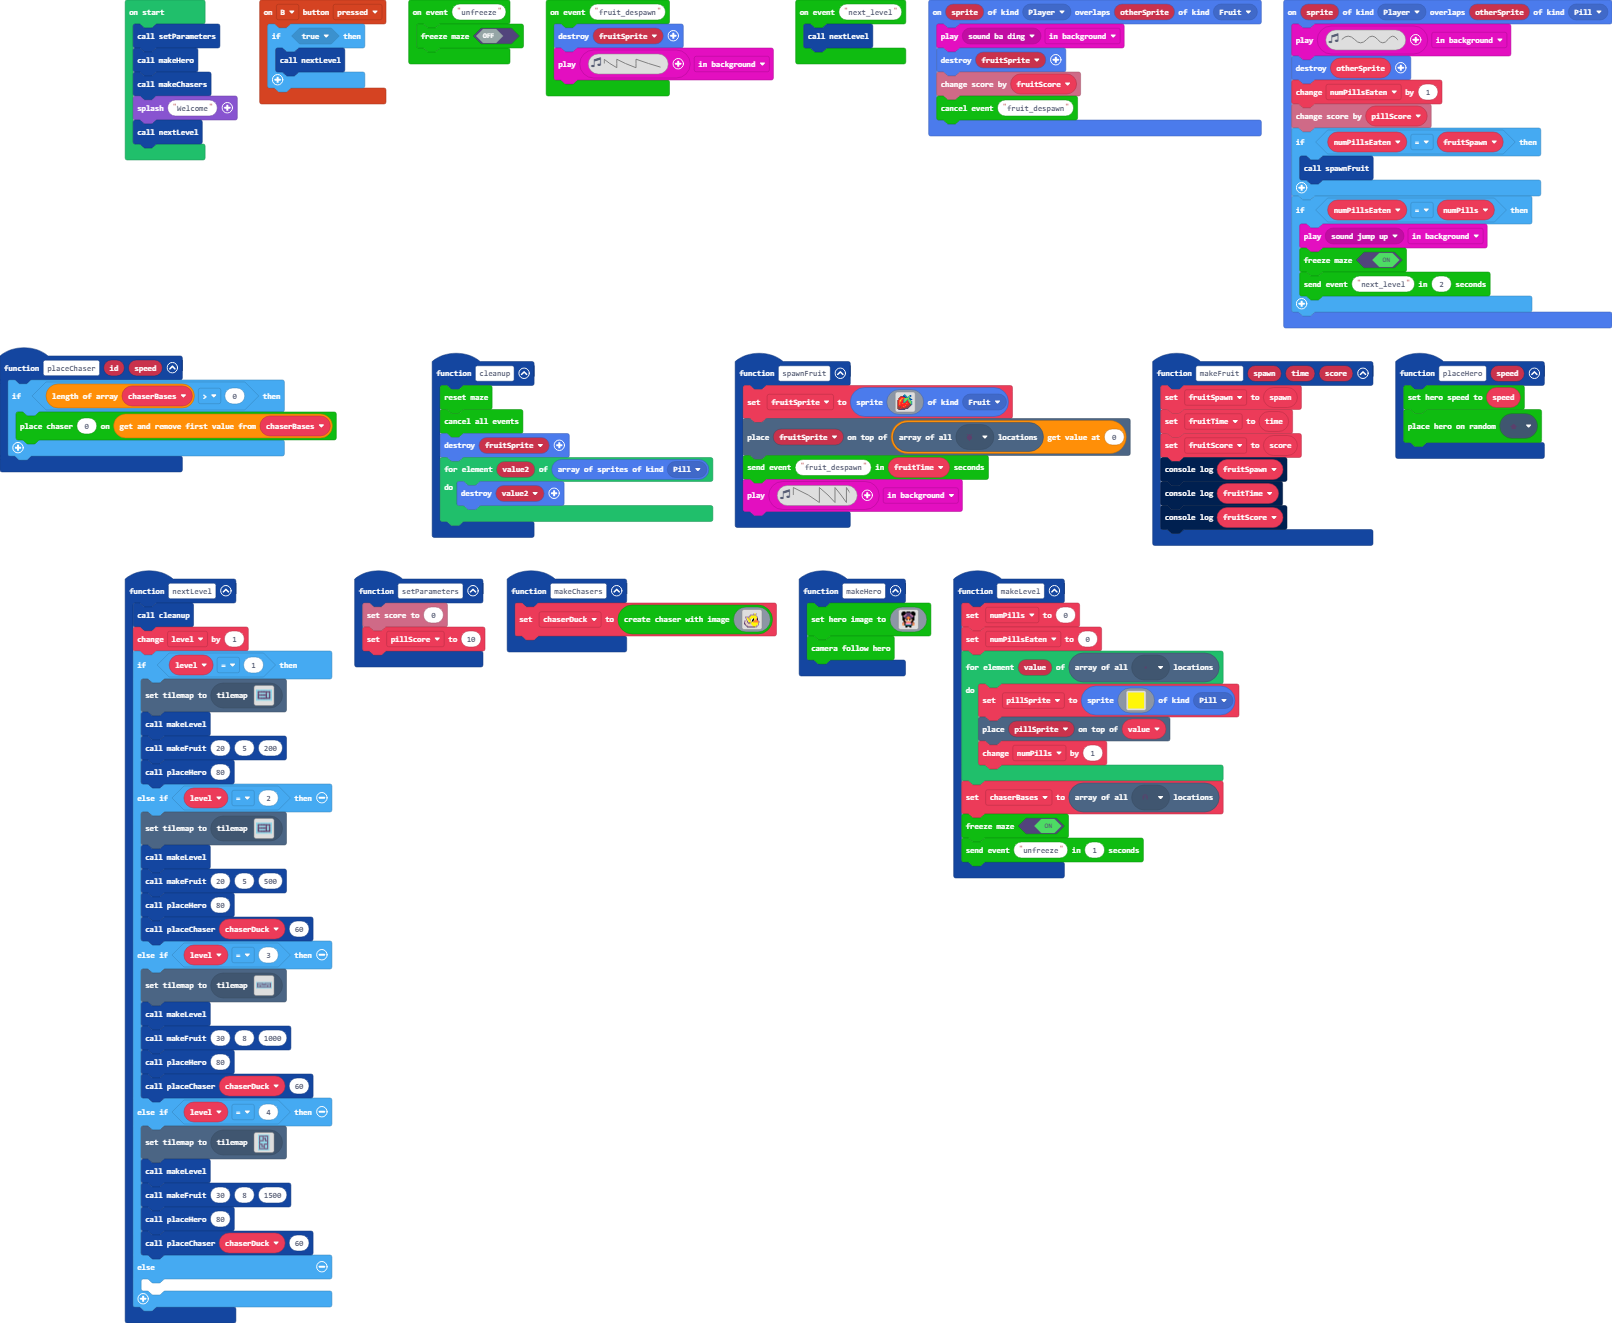
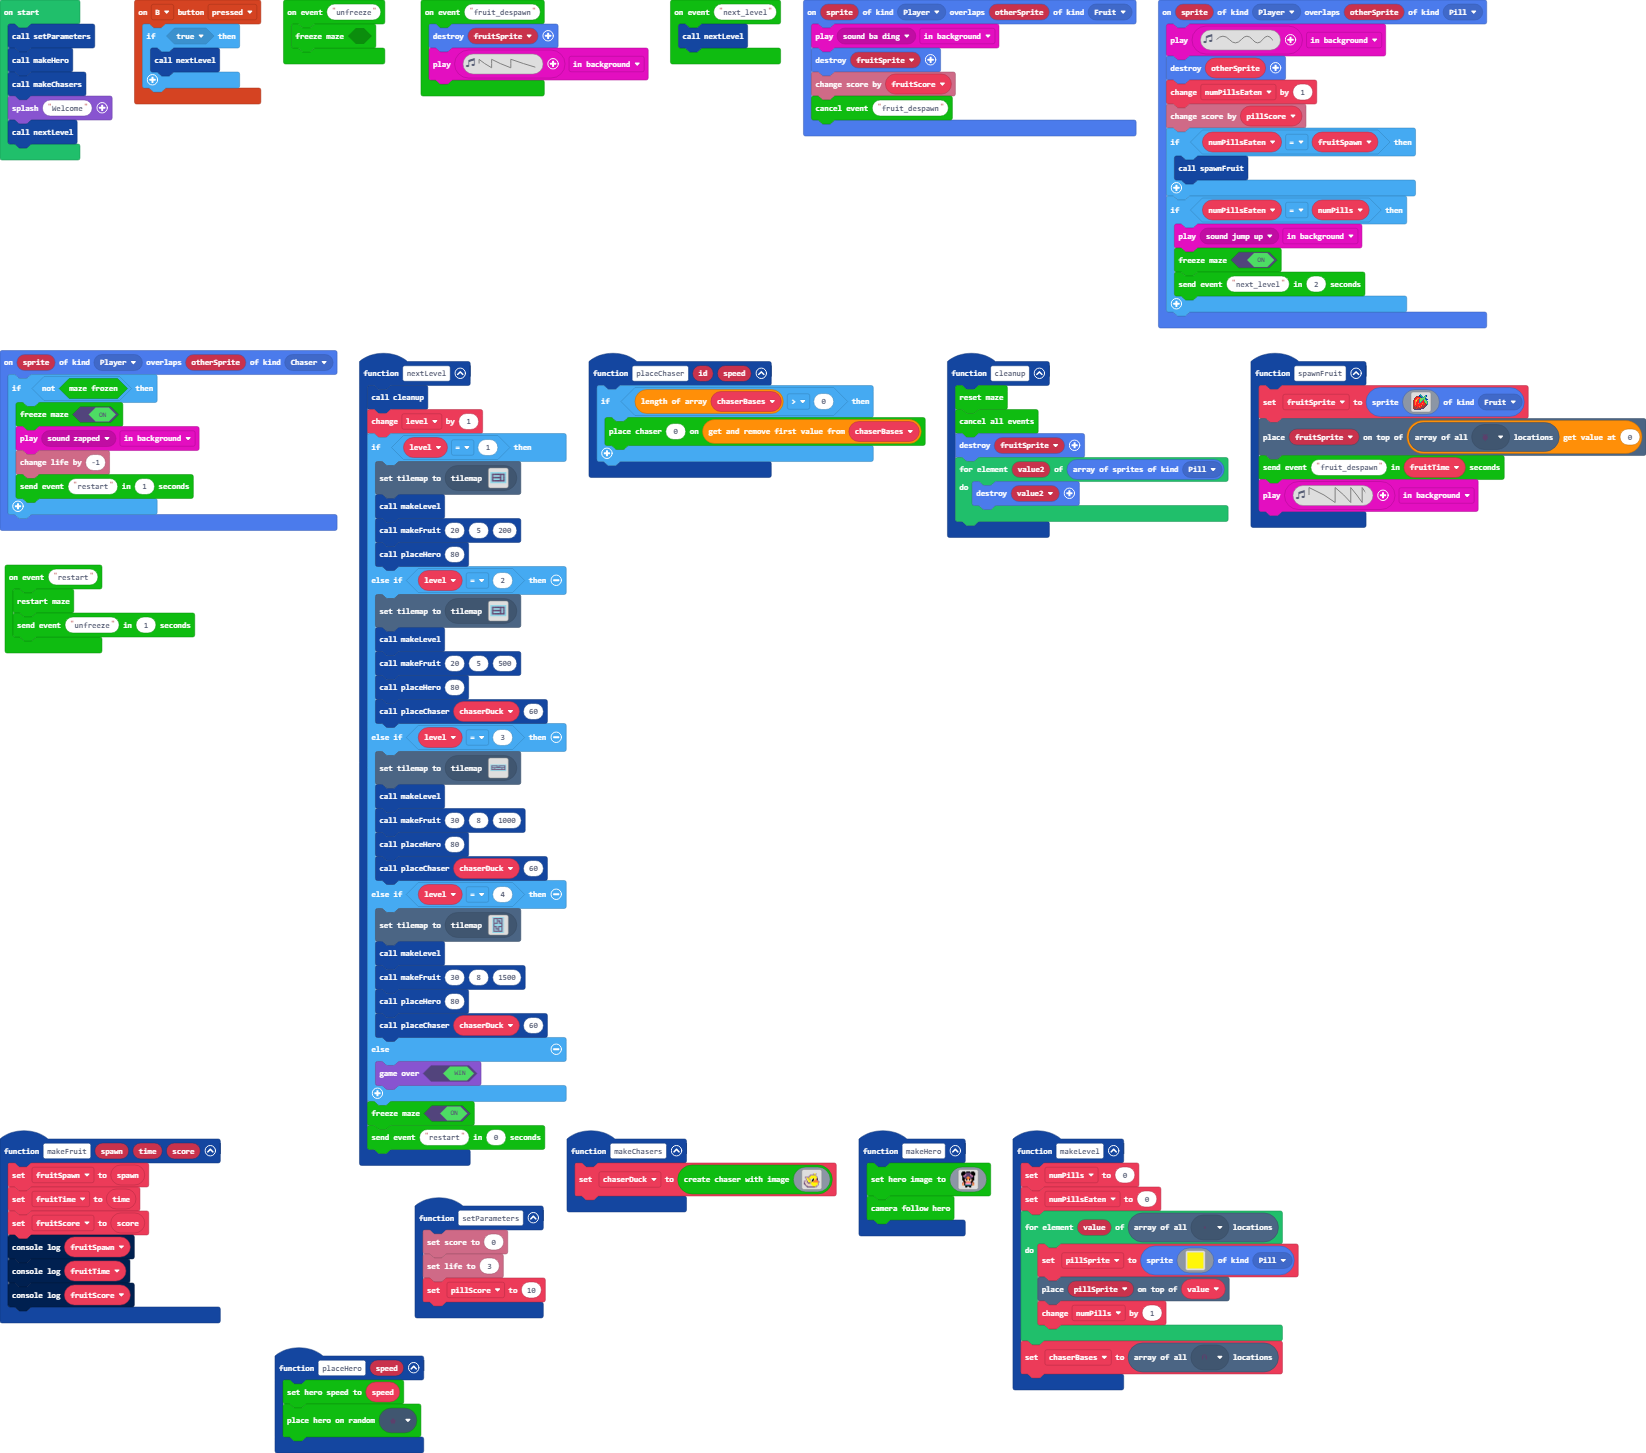
Chaser now eats hero

diff --git a/maze_mover.ts b/maze_mover.ts
@@ -11,8 +11,9 @@ namespace maze {
         _direction: Direction
         _request: Direction
         _speed: number
-        _freeze: boolean
+        _frozen: boolean
         _changedTile: boolean
+        _startLocation: tiles.Location
 
         constructor() {
             this._x = 0         // world x
@@ -25,7 +26,7 @@ namespace maze {
             this._direction = Direction.None
             this._request = Direction.None
             this._speed = 50
-            this._freeze = false
+            this._frozen = false
             this._changedTile = false
         }
 
@@ -46,28 +47,33 @@ namespace maze {
             this.show(false)
         }
 
+        restart() {
+            this.placeOnTile(this._startLocation)
+        }
+
         placeOnImage(img: Image) {
             const loc = tiles.getRandomTileByType(img)
-            if (loc) {
-                this.placeOnTile(loc)
-            }
+            this.placeOnTile(loc)
         }
 
         placeOnTile(loc: tiles.Location) {
-            tiles.placeOnTile(this._sprite, loc)
-            this._sprite.vx = 0
-            this._sprite.vy = 0
-            this._x = this._sprite.x
-            this._y = this._sprite.y
-            this._vx = 0
-            this._vy = 0
-            this._tx = loc.col
-            this._ty = loc.row
-            this._direction = Direction.None
-            this._request = Direction.None
-            this._changedTile = false
-            this.updateCanMove()
-            this.show(true)
+            if (loc) {
+                tiles.placeOnTile(this._sprite, loc)
+                this._startLocation = loc
+                this._sprite.vx = 0
+                this._sprite.vy = 0
+                this._x = this._sprite.x
+                this._y = this._sprite.y
+                this._vx = 0
+                this._vy = 0
+                this._tx = loc.col
+                this._ty = loc.row
+                this._direction = Direction.None
+                this._request = Direction.None
+                this._changedTile = false
+                this.updateCanMove()
+                this.show(true)
+            }
         }
 
         show(on: boolean) {
@@ -174,9 +180,9 @@ namespace maze {
             this._vy = this._sprite.vy
         }
 
-        freeze(enable: boolean) {
+        freeze(on: boolean) {
             if (this._sprite) {
-                if (enable) {
+                if (on) {
                     this._vx = this._sprite.vx
                     this._vy = this._sprite.vy
                     this._sprite.vx = 0
@@ -186,11 +192,11 @@ namespace maze {
                     this._sprite.vy = this._vy
                 }
             }
-            this._freeze = enable
+            this._frozen = on
         }
 
         isReady() : boolean {
-            return (this._sprite && !this._freeze)
+            return (this._sprite && !this._frozen)
         }
 
         public canMove(dir: Direction): boolean {

diff --git a/maze.ts b/maze.ts
@@ -16,10 +16,12 @@ namespace maze {
     class Maze {
         _hero: Hero
         _chasers: Chaser[]
+        _frozen: boolean
 
         constructor() {
             this._hero = new Hero()
             this._chasers = []
+            this._frozen = false
         }
 
         init() {
@@ -31,14 +33,20 @@ namespace maze {
             this._chasers.forEach(chaser => chaser.reset())
         }
 
+        restart() {
+            this._hero._mover.restart()
+            this._chasers.forEach(chaser => chaser._mover.restart())
+        }
+
         update() {
             this._hero.update()
             this._chasers.forEach(chaser => chaser.update())
         }
 
-        freeze(enable: boolean) {
-            this._hero._mover.freeze(enable)
-            this._chasers.forEach(chaser => chaser._mover.freeze(enable))
+        freeze(on: boolean) {
+            this._frozen = on
+            this._hero._mover.freeze(on)
+            this._chasers.forEach(chaser => chaser._mover.freeze(on))
         }
     }
     let _maze: Maze = null
@@ -53,11 +61,18 @@ namespace maze {
 
     //% blockId=maze_freeze
     //% group="Game"
-    //% block="freeze maze $enable"
-    //% enable.defl=true
-    //% enable.shadow=toggleOnOff
-    export function freeze(enable: boolean) {
-        getMaze().freeze(enable)
+    //% block="freeze maze $on"
+    //% on.defl=true
+    //% on.shadow=toggleOnOff
+    export function freeze(on: boolean) {
+        getMaze().freeze(on)
+    }
+
+    //% blockId=maze_is_frozen
+    //% group="Game"
+    //% block="maze frozen"
+    export function isFrozen(): boolean {
+        return getMaze()._frozen
     }
 
     //% blockId=maze_reset
@@ -65,5 +80,12 @@ namespace maze {
     //% block="reset maze"
     export function reset() {
         getMaze().reset()
+    }
+
+    //% blockId=maze_restart
+    //% group="Game"
+    //% block="restart maze"
+    export function restart() {
+        getMaze().restart()
     }
 }

diff --git a/main.ts b/main.ts
@@ -5,6 +5,7 @@ namespace SpriteKind {
 }
 function setParameters () {
     info.setScore(0)
+    info.setLife(3)
     pillScore = 10
 }
 function makeHero () {
@@ -28,6 +29,14 @@ function makeHero () {
         `)
     maze.cameraFollowHero()
 }
+sprites.onOverlap(SpriteKind.Player, SpriteKind.Chaser, function (sprite, otherSprite) {
+    if (!(maze.isFrozen())) {
+        maze.freeze(true)
+        music.play(music.melodyPlayable(music.zapped), music.PlaybackMode.InBackground)
+        info.changeLifeBy(-1)
+        maze.sendEvent("restart", 1)
+    }
+})
 controller.B.onEvent(ControllerButtonEvent.Pressed, function () {
     if (true) {
         nextLevel()
@@ -42,8 +51,6 @@ function makeLevel () {
         numPills += 1
     }
     chaserBases = tiles.getTilesByType(assets.tile`tile_chaser`)
-    maze.freeze(true)
-    maze.sendEvent("unfreeze", 1)
 }
 function spawnFruit () {
     fruitSprite = sprites.create(img`
@@ -115,6 +122,10 @@ function makeFruit (spawn: number, time: number, score: number) {
     console.log(fruitTime)
     console.log(fruitScore)
 }
+maze.onEvent("restart", function () {
+    maze.restart()
+    maze.sendEvent("unfreeze", 1)
+})
 function nextLevel () {
     cleanup()
     level += 1
@@ -142,8 +153,10 @@ function nextLevel () {
         placeHero(80)
         placeChaser(chaserDuck, 60)
     } else {
-    	
+        game.gameOver(true)
     }
+    maze.freeze(true)
+    maze.sendEvent("restart", 0)
 }
 maze.onEvent("unfreeze", function () {
     maze.freeze(false)
